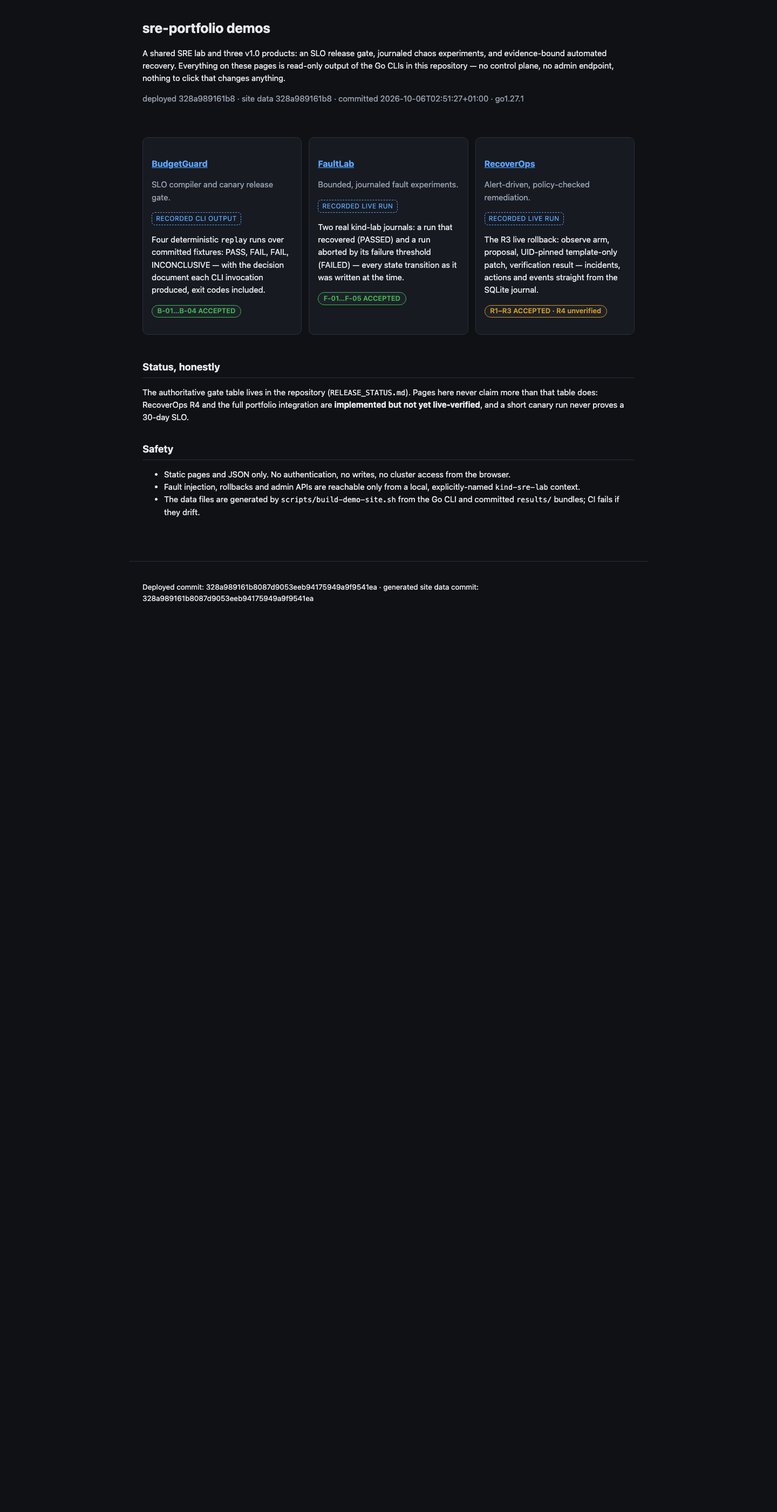
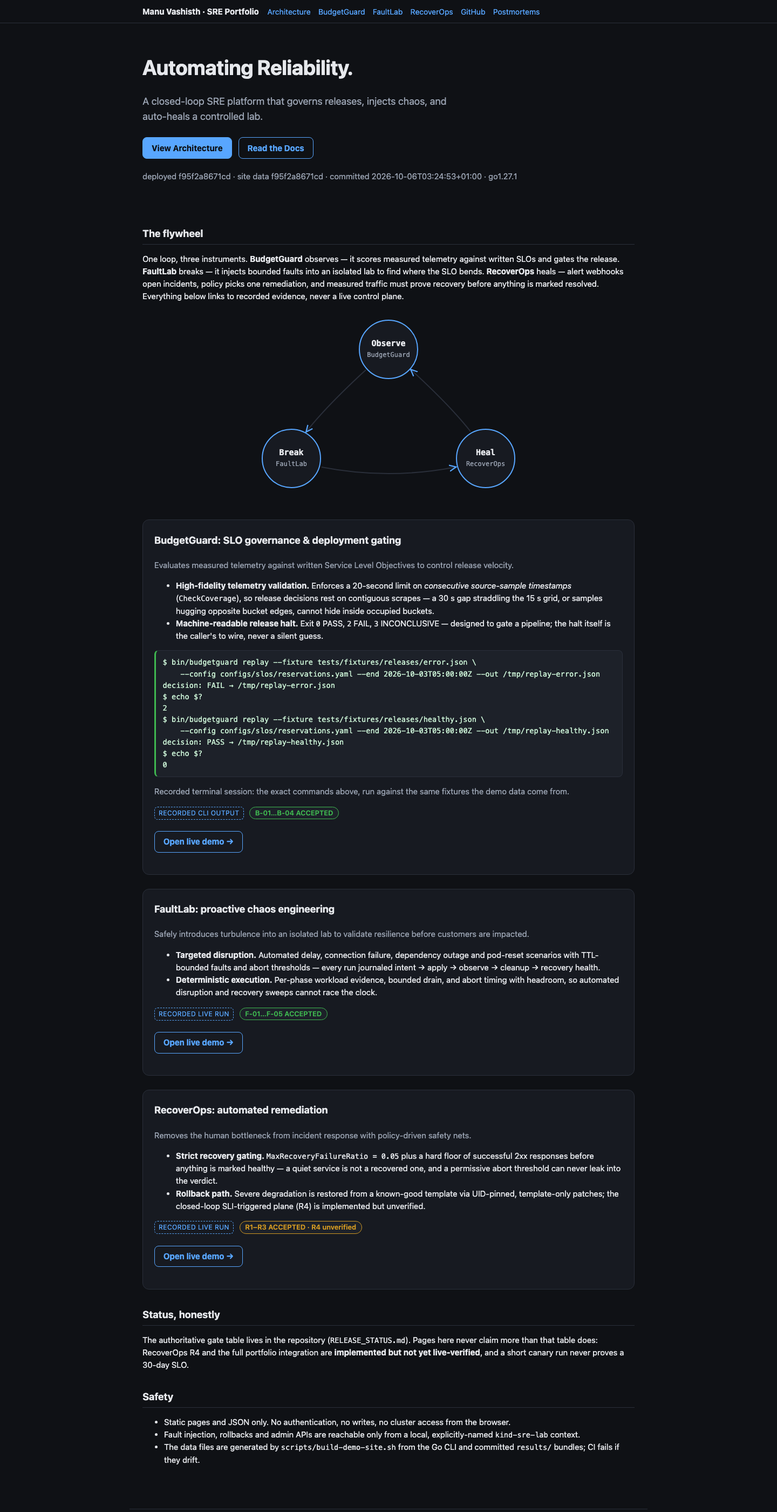
Refresh deploy evidence for the Resilience Suite landing
Live deploy_commit is now f95f2a8 (landing restyle only; no Go,
data, or config changes). Evidence re-verified in place: 13 endpoints
200 anonymous, rendered DOM, 0 console issues, deployed bytes identical
to git HEAD except the BUILD.json stamp.

diff --git a/results/deploy-20261005T064754Z/dom/index.html b/results/deploy-20261005T064754Z/dom/index.html
@@ -2,48 +2,139 @@
 <html lang="en"><head>
 <meta charset="utf-8">
 <meta name="viewport" content="width=device-width, initial-scale=1">
-<title>sre-portfolio — SRE lab demos</title>
+<title>Manu Vashisth — SRE Portfolio: The Resilience Suite</title>
 <link rel="stylesheet" href="./style.css">
 </head>
-<body>
-<header>
-  <h1>sre-portfolio demos</h1>
-  <p>A shared SRE lab and three v1.0 products: an SLO release gate, journaled
-     chaos experiments, and evidence-bound automated recovery. Everything on
-     these pages is read-only output of the Go CLIs in this repository — no
-     control plane, no admin endpoint, nothing to click that changes anything.</p>
-  <p class="label" id="build">deployed 328a989161b8 · site data 328a989161b8 · committed 2026-10-06T02:51:27+01:00 · go1.27.1</p>
+<body id="top">
+<nav>
+  <div class="nav-inner">
+    <a class="brand" href="#top">Manu Vashisth · SRE Portfolio</a>
+    <span class="nav-links">
+      <a href="#architecture">Architecture</a>
+      <a href="#budgetguard">BudgetGuard</a>
+      <a href="#faultlab">FaultLab</a>
+      <a href="#recoverops">RecoverOps</a>
+      <a href="https://github.com/RedHolger/Manu-Portfolio">GitHub</a>
+      <a href="https://github.com/RedHolger/Manu-Portfolio/blob/publish-demos/docs/postmortems/disk-pressure-2026-09-27.md">Postmortems</a>
+    </span>
+  </div>
+</nav>
+<header class="hero">
+  <h1>Automating Reliability.</h1>
+  <p class="lede">A closed-loop SRE platform that governs releases, injects
+     chaos, and auto-heals a controlled lab.</p>
+  <p>
+    <a class="btn" href="#architecture">View Architecture</a>
+    <a class="btn ghost" href="https://github.com/RedHolger/Manu-Portfolio/tree/publish-demos/docs">Read the Docs</a>
+  </p>
+  <p class="label" id="build">deployed f95f2a8671cd · site data f95f2a8671cd · committed 2026-10-06T03:24:53+01:00 · go1.27.1</p>
 </header>
 <main>
-  <div class="grid">
-    <section class="card">
-      <h3><a href="./budgetguard/">BudgetGuard</a></h3>
-      <p class="muted">SLO compiler and canary release gate.</p>
-      <p><span class="tag recorded">recorded CLI output</span></p>
-      <p>Four deterministic <code>replay</code> runs over committed fixtures:
-         PASS, FAIL, FAIL, INCONCLUSIVE — with the decision document each CLI
-         invocation produced, exit codes included.</p>
-      <p><span class="badge pass">B-01…B-04 ACCEPTED</span></p>
-    </section>
-    <section class="card">
-      <h3><a href="./faultlab/">FaultLab</a></h3>
-      <p class="muted">Bounded, journaled fault experiments.</p>
-      <p><span class="tag recorded">recorded live run</span></p>
-      <p>Two real kind-lab journals: a run that recovered (PASSED) and a run
-         aborted by its failure threshold (FAILED) — every state transition as
-         it was written at the time.</p>
-      <p><span class="badge pass">F-01…F-05 ACCEPTED</span></p>
-    </section>
-    <section class="card">
-      <h3><a href="./recoverops/">RecoverOps</a></h3>
-      <p class="muted">Alert-driven, policy-checked remediation.</p>
-      <p><span class="tag recorded">recorded live run</span></p>
-      <p>The R3 live rollback: observe arm, proposal, UID-pinned template-only
-         patch, verification result — incidents, actions and events straight
-         from the SQLite journal.</p>
-      <p><span class="badge incon">R1–R3 ACCEPTED · R4 unverified</span></p>
-    </section>
-  </div>
+  <h2 id="architecture">The flywheel</h2>
+  <p>One loop, three instruments. <strong>BudgetGuard</strong> observes —
+     it scores measured telemetry against written SLOs and gates the
+     release. <strong>FaultLab</strong> breaks — it injects bounded faults
+     into an isolated lab to find where the SLO bends. <strong>RecoverOps</strong>
+     heals — alert webhooks open incidents, policy picks one remediation,
+     and measured traffic must prove recovery before anything is marked
+     resolved. Everything below links to recorded evidence, never a live
+     control plane.</p>
+  <svg class="flywheel" viewBox="0 0 640 360" role="img" aria-label="Observe, Break, Heal loop: BudgetGuard observes, FaultLab breaks, RecoverOps heals">
+    <defs>
+      <marker id="arrow" viewBox="0 0 10 10" refX="8" refY="5" markerWidth="7" markerHeight="7" orient="auto-start-reverse">
+        <path d="M 0 1 L 9 5 L 0 9" fill="none" stroke="#58a6ff" stroke-width="1.6"></path>
+      </marker>
+    </defs>
+    <path class="flow" d="M 278 108 Q 205 175 168 222" marker-end="url(#arrow)"></path>
+    <path class="flow" d="M 196 288 Q 320 312 444 288" marker-end="url(#arrow)"></path>
+    <path class="flow" d="M 472 222 Q 435 175 362 108" marker-end="url(#arrow)"></path>
+    <a href="#budgetguard">
+      <circle class="node" cx="320" cy="70" r="54"></circle>
+      <text class="node-title" x="320" y="64">Observe</text>
+      <text class="node-sub" x="320" y="84">BudgetGuard</text>
+    </a>
+    <a href="#faultlab">
+      <circle class="node" cx="140" cy="272" r="54"></circle>
+      <text class="node-title" x="140" y="266">Break</text>
+      <text class="node-sub" x="140" y="286">FaultLab</text>
+    </a>
+    <a href="#recoverops">
+      <circle class="node" cx="500" cy="272" r="54"></circle>
+      <text class="node-title" x="500" y="266">Heal</text>
+      <text class="node-sub" x="500" y="286">RecoverOps</text>
+    </a>
+  </svg>
+
+  <section class="product" id="budgetguard">
+    <h2>BudgetGuard: SLO governance &amp; deployment gating</h2>
+    <p class="muted">Evaluates measured telemetry against written Service
+       Level Objectives to control release velocity.</p>
+    <ul>
+      <li><strong>High-fidelity telemetry validation.</strong> Enforces a
+        20-second limit on <em>consecutive source-sample timestamps</em>
+        (<code>CheckCoverage</code>), so release decisions rest on
+        contiguous scrapes — a 30&nbsp;s gap straddling the 15&nbsp;s grid,
+        or samples hugging opposite bucket edges, cannot hide inside
+        occupied buckets.</li>
+      <li><strong>Machine-readable release halt.</strong> Exit
+        <code>0</code> PASS, <code>2</code> FAIL, <code>3</code>
+        INCONCLUSIVE — designed to gate a pipeline; the halt itself is the
+        caller's to wire, never a silent guess.</li>
+    </ul>
+    <pre class="terminal">$ bin/budgetguard replay --fixture tests/fixtures/releases/error.json \
+    --config configs/slos/reservations.yaml --end 2026-10-03T05:00:00Z --out /tmp/replay-error.json
+decision: FAIL → /tmp/replay-error.json
+$ echo $?
+2
+$ bin/budgetguard replay --fixture tests/fixtures/releases/healthy.json \
+    --config configs/slos/reservations.yaml --end 2026-10-03T05:00:00Z --out /tmp/replay-healthy.json
+decision: PASS → /tmp/replay-healthy.json
+$ echo $?
+0</pre>
+    <p class="label">Recorded terminal session: the exact commands above, run
+       against the same fixtures the demo data come from.</p>
+    <p><span class="tag recorded">recorded CLI output</span>
+       <span class="badge pass">B-01…B-04 ACCEPTED</span></p>
+    <p><a class="btn ghost" href="./budgetguard/">Open live demo →</a></p>
+  </section>
+
+  <section class="product" id="faultlab">
+    <h2>FaultLab: proactive chaos engineering</h2>
+    <p class="muted">Safely introduces turbulence into an isolated lab to
+       validate resilience before customers are impacted.</p>
+    <ul>
+      <li><strong>Targeted disruption.</strong> Automated delay, connection
+        failure, dependency outage and pod-reset scenarios with TTL-bounded
+        faults and abort thresholds — every run journaled intent → apply →
+        observe → cleanup → recovery health.</li>
+      <li><strong>Deterministic execution.</strong> Per-phase workload
+        evidence, bounded drain, and abort timing with headroom, so
+        automated disruption and recovery sweeps cannot race the clock.</li>
+    </ul>
+    <p><span class="tag recorded">recorded live run</span>
+       <span class="badge pass">F-01…F-05 ACCEPTED</span></p>
+    <p><a class="btn ghost" href="./faultlab/">Open live demo →</a></p>
+  </section>
+
+  <section class="product" id="recoverops">
+    <h2>RecoverOps: automated remediation</h2>
+    <p class="muted">Removes the human bottleneck from incident response
+       with policy-driven safety nets.</p>
+    <ul>
+      <li><strong>Strict recovery gating.</strong>
+        <code>MaxRecoveryFailureRatio = 0.05</code> plus a hard floor of
+        successful 2xx responses before anything is marked healthy — a
+        quiet service is not a recovered one, and a permissive abort
+        threshold can never leak into the verdict.</li>
+      <li><strong>Rollback path.</strong> Severe degradation is restored
+        from a known-good template via UID-pinned, template-only patches;
+        the closed-loop SLI-triggered plane (R4) is implemented but
+        unverified.</li>
+    </ul>
+    <p><span class="tag recorded">recorded live run</span>
+       <span class="badge incon">R1–R3 ACCEPTED · R4 unverified</span></p>
+    <p><a class="btn ghost" href="./recoverops/">Open live demo →</a></p>
+  </section>
 
   <h2>Status, honestly</h2>
   <p>The authoritative gate table lives in the repository
@@ -64,7 +155,7 @@
   </ul>
 </main>
 <footer>
-  <p id="footer-commit">Deployed commit: 328a989161b8087d9053eeb94175949a9f9541ea · generated site data commit: 328a989161b8087d9053eeb94175949a9f9541ea</p>
+  <p id="footer-commit">Deployed commit: f95f2a8671cd2155a6c8d6f9ac1ff5b2b40a48fc · generated site data commit: f95f2a8671cd2155a6c8d6f9ac1ff5b2b40a48fc</p>
 </footer>
 <script>
 fetch('./BUILD.json').then(function (r) { return r.json(); }).then(function (b) {

diff --git a/results/deploy-20261005T064754Z/dom/faultlab.html b/results/deploy-20261005T064754Z/dom/faultlab.html
@@ -16,10 +16,10 @@
      Read-only dumps of the SQLite journals committed under
      <code>results/faultlab/</code>. Timestamps and states are exactly as the
      runner wrote them on the dates shown — nothing is replayed or edited.</p>
-  <p class="label" id="build">site data generated from commit 328a989161b8 (2026-10-06T02:51:27+01:00)</p>
+  <p class="label" id="build">site data generated from commit f95f2a8671cd (2026-10-06T03:24:53+01:00)</p>
 </header>
 <main>
-  <div id="demos"><section class="card"><h3>Recovered run (PASSED)</h3><p class="muted">Live kind-sre-lab run: 400ms/50% delay for 20s, PASSED with zero live faults after cleanup.</p><table><tr><th>run</th><th>state</th><th>started (UTC)</th><th>seed</th><th>error</th></tr><tr><td>short-delay-1790613570</td><td><span class="badge pass">PASSED</span></td><td>2026-09-28T16:39:30.343429Z</td><td>11</td><td class="muted">—</td></tr></table><h3>journal events</h3><ol class="timeline"><li><span class="kind">0 · created</span><span class="muted">  2026-09-28T16:39:30.34344Z</span></li><li><span class="kind">1 · preflight</span><span class="muted">  2026-09-28T16:39:30.439818Z</span></li><li><span class="kind">2 · baseline-start</span><span class="muted">  2026-09-28T16:39:30.452271Z</span></li><li><span class="kind">3 · inject</span><span class="muted">  2026-09-28T16:39:40.45748Z</span><pre>{"fault":"short-delay-1790613570-f1"}</pre></li><li><span class="kind">4 · observe-start</span><span class="muted">  2026-09-28T16:39:40.464044Z</span></li><li><span class="kind">5 · cleanup</span><span class="muted">  2026-09-28T16:40:00.878036Z</span><pre>{"reason":"observe-complete"}</pre></li><li><span class="kind">6 · verify</span><span class="muted">  2026-09-28T16:40:00.882957Z</span></li><li><span class="kind">7 · resolved</span><span class="muted">  2026-09-28T16:40:00.883179Z</span></li></ol><h3>faults</h3><table><tr><th>id</th><th>kind</th><th>target</th><th>applied</th><th>cleared</th><th>expires</th></tr><tr><td>short-delay-1790613570-f1</td><td>gateway_delay</td><td><code>{"slot":"stable","fraction":0.5}</code></td><td>2026-09-28T16:39:40.463694Z</td><td>2026-09-28T16:40:00.881085Z</td><td>2026-09-28T16:40:10.456863Z</td></tr></table><p><a href="./data/passed.json">raw journal dump</a></p></section><section class="card"><h3>Aborted run (FAILED)</h3><p class="muted">Live kind-sre-lab run: connection failure above the abort threshold; the runner cleaned up and recorded FAILED.</p><table><tr><th>run</th><th>state</th><th>started (UTC)</th><th>seed</th><th>error</th></tr><tr><td>abort-fail-1790613856</td><td><span class="badge fail">FAILED</span></td><td>2026-09-28T16:44:16.44562Z</td><td>14</td><td class="muted">abort: failure ratio above 50%</td></tr></table><h3>journal events</h3><ol class="timeline"><li><span class="kind">0 · created</span><span class="muted">  2026-09-28T16:44:16.445635Z</span></li><li><span class="kind">1 · preflight</span><span class="muted">  2026-09-28T16:44:16.559492Z</span></li><li><span class="kind">2 · baseline-start</span><span class="muted">  2026-09-28T16:44:16.570699Z</span></li><li><span class="kind">3 · inject</span><span class="muted">  2026-09-28T16:44:26.578143Z</span><pre>{"fault":"abort-fail-1790613856-f1"}</pre></li><li><span class="kind">4 · observe-start</span><span class="muted">  2026-09-28T16:44:26.581563Z</span></li><li><span class="kind">5 · cleanup</span><span class="muted">  2026-09-28T16:44:37.589907Z</span><pre>{"reason":"abort: failure ratio above 50%"}</pre></li><li><span class="kind">6 · verify</span><span class="muted">  2026-09-28T16:44:37.597535Z</span></li><li><span class="kind">7 · resolved</span><span class="muted">  2026-09-28T16:44:37.597801Z</span></li></ol><h3>faults</h3><table><tr><th>id</th><th>kind</th><th>target</th><th>applied</th><th>cleared</th><th>expires</th></tr><tr><td>abort-fail-1790613856-f1</td><td>conn_fail</td><td><code>{"slot":"stable","fraction":1}</code></td><td>2026-09-28T16:44:26.581403Z</td><td>2026-09-28T16:44:37.594377Z</td><td>2026-09-28T16:44:56.577662Z</td></tr></table><p><a href="./data/aborted.json">raw journal dump</a></p></section></div>
+  <div id="demos"><section class="card"><h3>Aborted run (FAILED)</h3><p class="muted">Live kind-sre-lab run: connection failure above the abort threshold; the runner cleaned up and recorded FAILED.</p><table><tr><th>run</th><th>state</th><th>started (UTC)</th><th>seed</th><th>error</th></tr><tr><td>abort-fail-1790613856</td><td><span class="badge fail">FAILED</span></td><td>2026-09-28T16:44:16.44562Z</td><td>14</td><td class="muted">abort: failure ratio above 50%</td></tr></table><h3>journal events</h3><ol class="timeline"><li><span class="kind">0 · created</span><span class="muted">  2026-09-28T16:44:16.445635Z</span></li><li><span class="kind">1 · preflight</span><span class="muted">  2026-09-28T16:44:16.559492Z</span></li><li><span class="kind">2 · baseline-start</span><span class="muted">  2026-09-28T16:44:16.570699Z</span></li><li><span class="kind">3 · inject</span><span class="muted">  2026-09-28T16:44:26.578143Z</span><pre>{"fault":"abort-fail-1790613856-f1"}</pre></li><li><span class="kind">4 · observe-start</span><span class="muted">  2026-09-28T16:44:26.581563Z</span></li><li><span class="kind">5 · cleanup</span><span class="muted">  2026-09-28T16:44:37.589907Z</span><pre>{"reason":"abort: failure ratio above 50%"}</pre></li><li><span class="kind">6 · verify</span><span class="muted">  2026-09-28T16:44:37.597535Z</span></li><li><span class="kind">7 · resolved</span><span class="muted">  2026-09-28T16:44:37.597801Z</span></li></ol><h3>faults</h3><table><tr><th>id</th><th>kind</th><th>target</th><th>applied</th><th>cleared</th><th>expires</th></tr><tr><td>abort-fail-1790613856-f1</td><td>conn_fail</td><td><code>{"slot":"stable","fraction":1}</code></td><td>2026-09-28T16:44:26.581403Z</td><td>2026-09-28T16:44:37.594377Z</td><td>2026-09-28T16:44:56.577662Z</td></tr></table><p><a href="./data/aborted.json">raw journal dump</a></p></section><section class="card"><h3>Recovered run (PASSED)</h3><p class="muted">Live kind-sre-lab run: 400ms/50% delay for 20s, PASSED with zero live faults after cleanup.</p><table><tr><th>run</th><th>state</th><th>started (UTC)</th><th>seed</th><th>error</th></tr><tr><td>short-delay-1790613570</td><td><span class="badge pass">PASSED</span></td><td>2026-09-28T16:39:30.343429Z</td><td>11</td><td class="muted">—</td></tr></table><h3>journal events</h3><ol class="timeline"><li><span class="kind">0 · created</span><span class="muted">  2026-09-28T16:39:30.34344Z</span></li><li><span class="kind">1 · preflight</span><span class="muted">  2026-09-28T16:39:30.439818Z</span></li><li><span class="kind">2 · baseline-start</span><span class="muted">  2026-09-28T16:39:30.452271Z</span></li><li><span class="kind">3 · inject</span><span class="muted">  2026-09-28T16:39:40.45748Z</span><pre>{"fault":"short-delay-1790613570-f1"}</pre></li><li><span class="kind">4 · observe-start</span><span class="muted">  2026-09-28T16:39:40.464044Z</span></li><li><span class="kind">5 · cleanup</span><span class="muted">  2026-09-28T16:40:00.878036Z</span><pre>{"reason":"observe-complete"}</pre></li><li><span class="kind">6 · verify</span><span class="muted">  2026-09-28T16:40:00.882957Z</span></li><li><span class="kind">7 · resolved</span><span class="muted">  2026-09-28T16:40:00.883179Z</span></li></ol><h3>faults</h3><table><tr><th>id</th><th>kind</th><th>target</th><th>applied</th><th>cleared</th><th>expires</th></tr><tr><td>short-delay-1790613570-f1</td><td>gateway_delay</td><td><code>{"slot":"stable","fraction":0.5}</code></td><td>2026-09-28T16:39:40.463694Z</td><td>2026-09-28T16:40:00.881085Z</td><td>2026-09-28T16:40:10.456863Z</td></tr></table><p><a href="./data/passed.json">raw journal dump</a></p></section></div>
 
   <h2>What each state means</h2>
   <table>

diff --git a/results/deploy-20261005T064754Z/dom/budgetguard.html b/results/deploy-20261005T064754Z/dom/budgetguard.html
@@ -17,7 +17,7 @@
      <code>bin/budgetguard replay</code> at site build time, over a committed
      fixture and the committed SLO config. The run is offline and
      deterministic; nothing here is a live measurement.</p>
-  <p class="label" id="build">site data generated from commit 328a989161b8 (2026-10-06T02:51:27+01:00)</p>
+  <p class="label" id="build">site data generated from commit f95f2a8671cd (2026-10-06T03:24:53+01:00)</p>
 </header>
 <main>
   <h2>Decisions</h2>
@@ -31,7 +31,7 @@
      refuses to decide rather than guessing.</p>
 
   <h2>Decision documents</h2>
-  <div id="details"><section class="card"><h3>error → FAIL</h3><p class="muted">window 2026-10-03T04:55:00Z → 2026-10-03T05:00:00Z · policy hash 18c2b31bdf994d3a…</p><table><tr><th>lane</th><th>eligible</th><th>bad</th><th>slow or bad</th></tr><tr><td>stable</td><td>24000</td><td>0</td><td>10</td></tr><tr><td>candidate</td><td>6000</td><td>300</td><td>310</td></tr></table><p class="muted">reasons: candidate_error_rate_exceeded, candidate_error_rate_increase_exceeded, candidate_slow_rate_exceeded, candidate_slow_rate_increase_exceeded · history_complete=false · estimated_counts=false</p><p><a href="./data/error.json">raw decision JSON</a></p></section><section class="card"><h3>thin → INCONCLUSIVE</h3><p class="muted">window 2026-10-03T04:55:00Z → 2026-10-03T05:00:00Z · policy hash 18c2b31bdf994d3a…</p><table><tr><th>lane</th><th>eligible</th><th>bad</th><th>slow or bad</th></tr><tr><td>stable</td><td>40</td><td>0</td><td>0</td></tr><tr><td>candidate</td><td>10</td><td>0</td><td>0</td></tr></table><p class="muted">reasons: insufficient_traffic · history_complete=false · estimated_counts=false</p><p><a href="./data/thin.json">raw decision JSON</a></p></section><section class="card"><h3>slow → FAIL</h3><p class="muted">window 2026-10-03T04:55:00Z → 2026-10-03T05:00:00Z · policy hash 18c2b31bdf994d3a…</p><table><tr><th>lane</th><th>eligible</th><th>bad</th><th>slow or bad</th></tr><tr><td>stable</td><td>24000</td><td>24</td><td>240</td></tr><tr><td>candidate</td><td>6000</td><td>30</td><td>900</td></tr></table><p class="muted">reasons: candidate_slow_rate_exceeded, candidate_slow_rate_increase_exceeded · history_complete=false · estimated_counts=false</p><p><a href="./data/slow.json">raw decision JSON</a></p></section><section class="card"><h3>healthy → PASS</h3><p class="muted">window 2026-10-03T04:55:00Z → 2026-10-03T05:00:00Z · policy hash 18c2b31bdf994d3a…</p><table><tr><th>lane</th><th>eligible</th><th>bad</th><th>slow or bad</th></tr><tr><td>stable</td><td>24000</td><td>12</td><td>200</td></tr><tr><td>candidate</td><td>6000</td><td>18</td><td>90</td></tr></table><p class="muted">reasons: within_gate · history_complete=false · estimated_counts=false</p><p><a href="./data/healthy.json">raw decision JSON</a></p></section></div>
+  <div id="details"><section class="card"><h3>slow → FAIL</h3><p class="muted">window 2026-10-03T04:55:00Z → 2026-10-03T05:00:00Z · policy hash 18c2b31bdf994d3a…</p><table><tr><th>lane</th><th>eligible</th><th>bad</th><th>slow or bad</th></tr><tr><td>stable</td><td>24000</td><td>24</td><td>240</td></tr><tr><td>candidate</td><td>6000</td><td>30</td><td>900</td></tr></table><p class="muted">reasons: candidate_slow_rate_exceeded, candidate_slow_rate_increase_exceeded · history_complete=false · estimated_counts=false</p><p><a href="./data/slow.json">raw decision JSON</a></p></section><section class="card"><h3>thin → INCONCLUSIVE</h3><p class="muted">window 2026-10-03T04:55:00Z → 2026-10-03T05:00:00Z · policy hash 18c2b31bdf994d3a…</p><table><tr><th>lane</th><th>eligible</th><th>bad</th><th>slow or bad</th></tr><tr><td>stable</td><td>40</td><td>0</td><td>0</td></tr><tr><td>candidate</td><td>10</td><td>0</td><td>0</td></tr></table><p class="muted">reasons: insufficient_traffic · history_complete=false · estimated_counts=false</p><p><a href="./data/thin.json">raw decision JSON</a></p></section><section class="card"><h3>error → FAIL</h3><p class="muted">window 2026-10-03T04:55:00Z → 2026-10-03T05:00:00Z · policy hash 18c2b31bdf994d3a…</p><table><tr><th>lane</th><th>eligible</th><th>bad</th><th>slow or bad</th></tr><tr><td>stable</td><td>24000</td><td>0</td><td>10</td></tr><tr><td>candidate</td><td>6000</td><td>300</td><td>310</td></tr></table><p class="muted">reasons: candidate_error_rate_exceeded, candidate_error_rate_increase_exceeded, candidate_slow_rate_exceeded, candidate_slow_rate_increase_exceeded · history_complete=false · estimated_counts=false</p><p><a href="./data/error.json">raw decision JSON</a></p></section><section class="card"><h3>healthy → PASS</h3><p class="muted">window 2026-10-03T04:55:00Z → 2026-10-03T05:00:00Z · policy hash 18c2b31bdf994d3a…</p><table><tr><th>lane</th><th>eligible</th><th>bad</th><th>slow or bad</th></tr><tr><td>stable</td><td>24000</td><td>12</td><td>200</td></tr><tr><td>candidate</td><td>6000</td><td>18</td><td>90</td></tr></table><p class="muted">reasons: within_gate · history_complete=false · estimated_counts=false</p><p><a href="./data/healthy.json">raw decision JSON</a></p></section></div>
 
   <h2>SLO config used</h2>
   <pre id="slo">apiVersion: portfolio.sre/v1

diff --git a/results/deploy-20261005T064754Z/dom/recoverops.html b/results/deploy-20261005T064754Z/dom/recoverops.html
@@ -16,7 +16,7 @@
      Incidents, actions and events read straight out of the SQLite journal
      committed under <code>results/recoverops/r3-live-20261003T151252Z/</code>.
      Template bodies are replaced by their length; nothing else is edited.</p>
-  <p class="label" id="build">site data generated from commit 328a989161b8 (2026-10-06T02:51:27+01:00)</p>
+  <p class="label" id="build">site data generated from commit f95f2a8671cd (2026-10-06T03:24:53+01:00)</p>
 </header>
 <main>
[1 lines of base64/hex data omitted]

diff --git a/PUBLIC_LINKS.md b/PUBLIC_LINKS.md
@@ -1,8 +1,8 @@
 # PUBLIC_LINKS.md — verified public URLs for the demo site
 
-Last verified: 2026-10-05 (UTC), site deploy `328a989161b8`, repository
-`publish-demos` at `328a989…` (later commits, if any, are docs/evidence
-only — `git diff 328a989..HEAD -- site/` must stay empty) — see
+Last verified: 2026-10-06 (UTC), site deploy `f95f2a8671cd`, repository
+`publish-demos` at `f95f2a8…` (later commits, if any, are docs/evidence
+only — `git diff f95f2a8..HEAD -- site/` must stay empty) — see
 `results/deploy-20261005T064754Z/` for the raw evidence (HTTP statuses, DOM
 dumps, screenshots, console output, git-tree comparison).
 
@@ -42,7 +42,7 @@ Supporting files (also verified 200):
 | URL | Status |
 |---|---|
 | <https://github.com/RedHolger/Manu-Portfolio> | **VERIFIED** 2026-10-05: `git ls-remote origin HEAD` → `b4933ef…` (all five branches present: `publish-demos` (default), `master` @ `0fe8b77`, `recoverops-dev`, `faultlab-dev`, `correctness-fixes`). |
-| <https://github.com/RedHolger/Manu-Portfolio/actions> | CI `ci.yml` — **PASSING** on `328a989` (run 11: go, rules, scripts, site all green). Earlier failures, all fixed: runs 1–2 tracked exec bits (`core.fileMode=false`, now guarded); runs 3 and 10 a slow-runner abort-timing flake (`TestAbortRecordsRecoverySkipped`, given headroom); `go test` failures are emitted as check-run annotations for diagnosis. |
+| <https://github.com/RedHolger/Manu-Portfolio/actions> | CI `ci.yml` — **PASSING** on `f95f2a8` (run 13: go, rules, scripts, site all green). Earlier failures, all fixed: runs 1–2 tracked exec bits (`core.fileMode=false`, now guarded); runs 3 and 10 a slow-runner abort-timing flake (`TestAbortRecordsRecoverySkipped`, given headroom); `go test` failures are emitted as check-run annotations for diagnosis. |
 | <https://github.com/RedHolger/Manu-Portfolio/actions/workflows/ci.yml/badge.svg> | badge, fetched 2026-10-05: `ci - passing` |
 
 Baselines `0fe8b77` (master) and `cad2f7e` (correctness-fixes) were pushed as-is;

diff --git a/TASKS.md b/TASKS.md
@@ -831,3 +831,21 @@ Status reflects executed tests and measured outcomes only.
   (site data unchanged since the first deploy).
 - Still open: no new live lab run from this session (parallel session ran
   kind-sre-lab for `05c5ffa`); GitHub Pages not chosen.
+
+## Session 2026-10-06 — Resilience Suite landing (static restyle)
+
+- Landing-only restyle per approved plan (static HTML/CSS; Next.js
+  declined — would replace the upload + drift-gate pipeline; all-pages
+  nav declined — smallest reviewable diff). `site/index.html`: sticky nav,
+  hero ("Automating Reliability." + corrected "controlled lab" subhead),
+  inline SVG flywheel (Observe/Break/Heal nodes anchor to sections),
+  three product sections with claims-audited copy (pipeline shutdown,
+  staging/production, zero-touch SLI interception, and async-testing
+  claims corrected to exit codes, kind lab, R4 caveat, phase timing),
+  and a real recorded `budgetguard replay` transcript (FAIL/exit 2,
+  PASS/exit 0 — bytes captured from the exact invocations shown).
+  `site/style.css`: nav, hero, buttons, flywheel, terminal, <40rem
+  responsive. Subpages, data, BUILD.json, generator, CI untouched.
+- Verified local 1440px + 390px screenshots, 0 console issues; --check
+  clean (HTML not part of the drift comparison). Commit `f95f2a8`,
+  CI run 13 green, redeployed live = `f95f2a8`, evidence refreshed.

diff --git a/results/deploy-20261005T064754Z/summary.md b/results/deploy-20261005T064754Z/summary.md
@@ -58,6 +58,12 @@ gap now measured on consecutive source timestamps
 `c2546b2`); abort-test headroom for slow runners. Site data files are
 byte-identical to the previous deploy (replay/evidence unchanged).
 
+## Redeploy 2026-10-06: live = `f95f2a8671cd` (Resilience Suite landing)
+
+Landing page restructured (nav, hero, flywheel, product sections, recorded
+replay transcript); no Go, data, or config changes. Live `deploy_commit`
+equals the repo HEAD at deploy time; evidence refreshed in place.
+
 ## Relationship to later commits
 
 `git diff 5bf472897499..HEAD -- site/` is empty: the commits that followed
